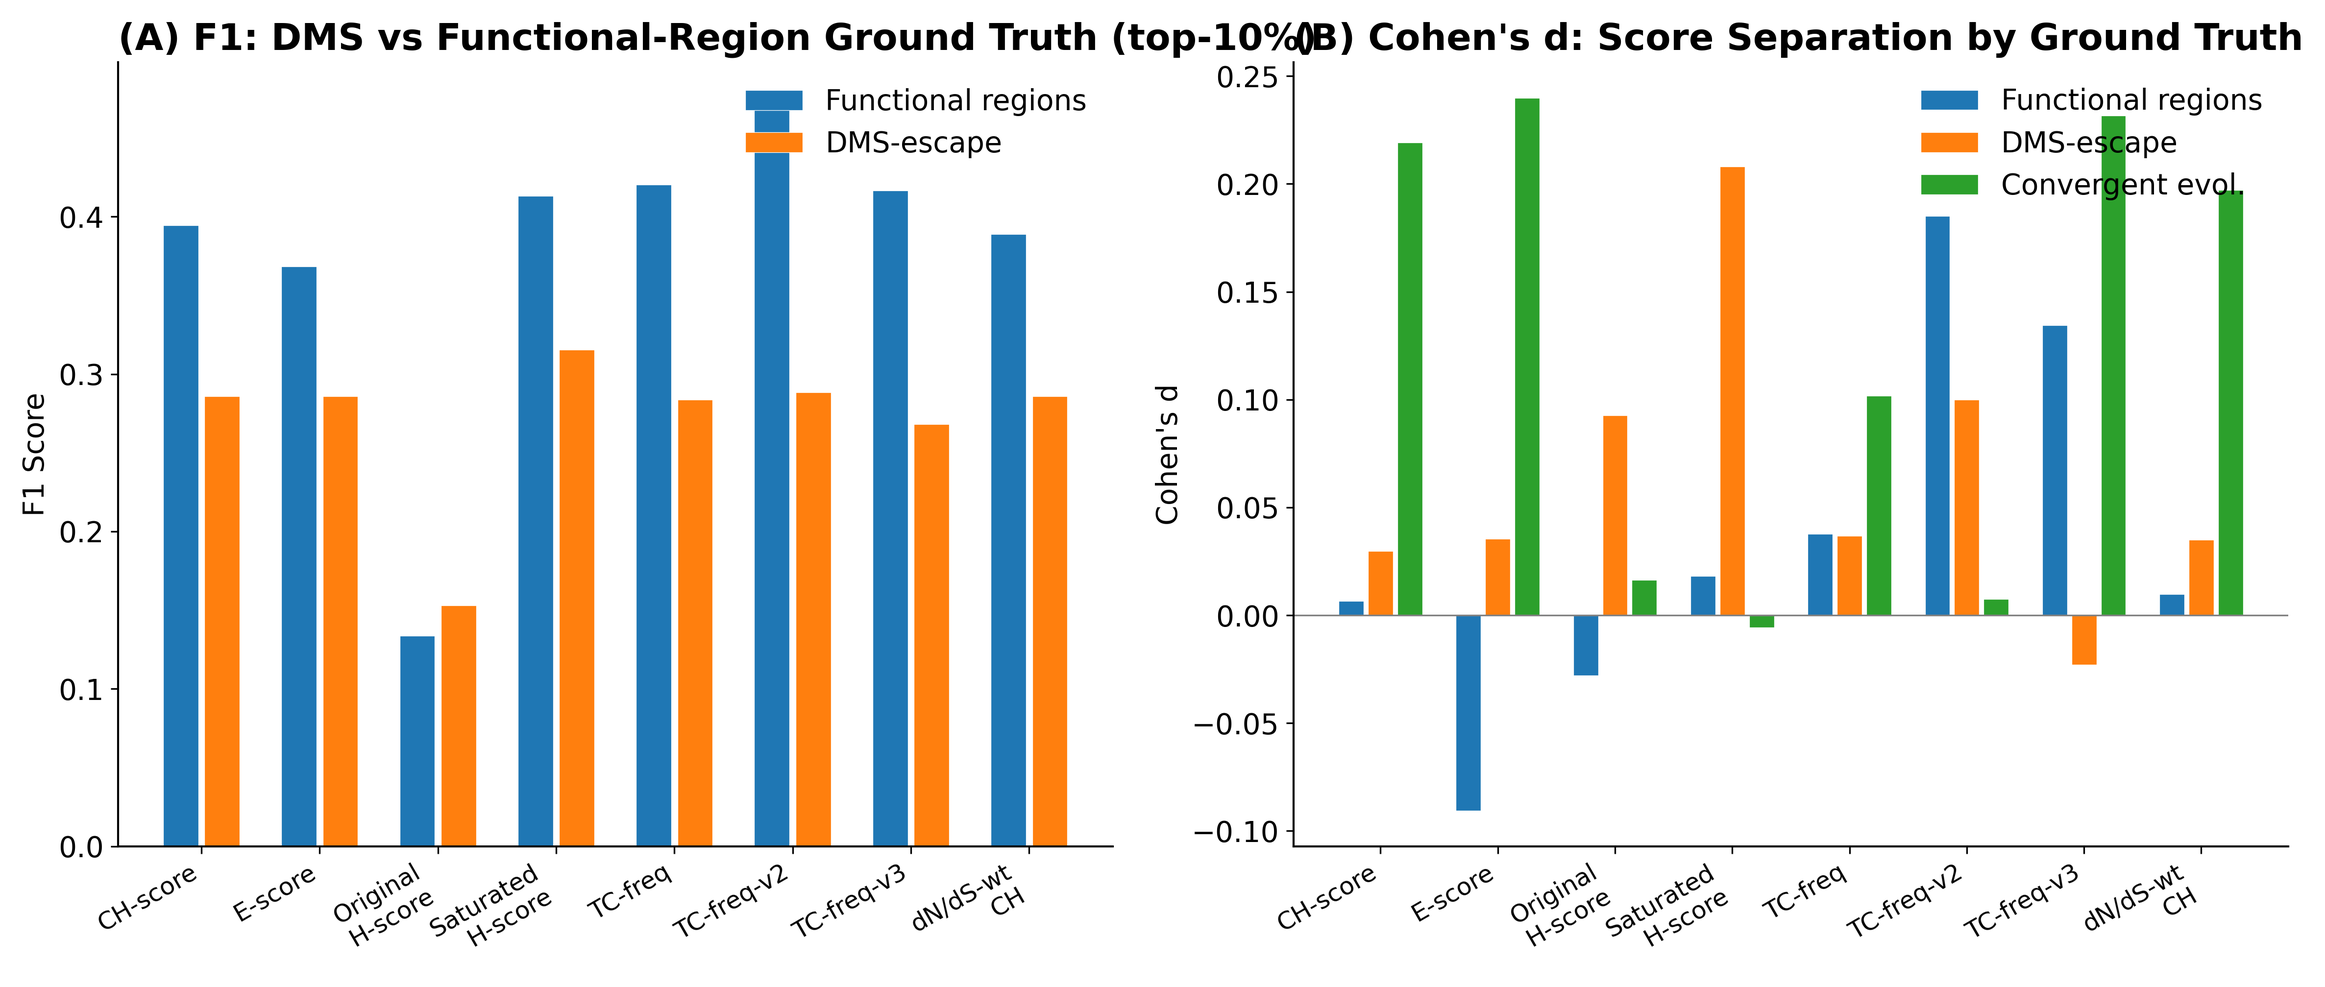
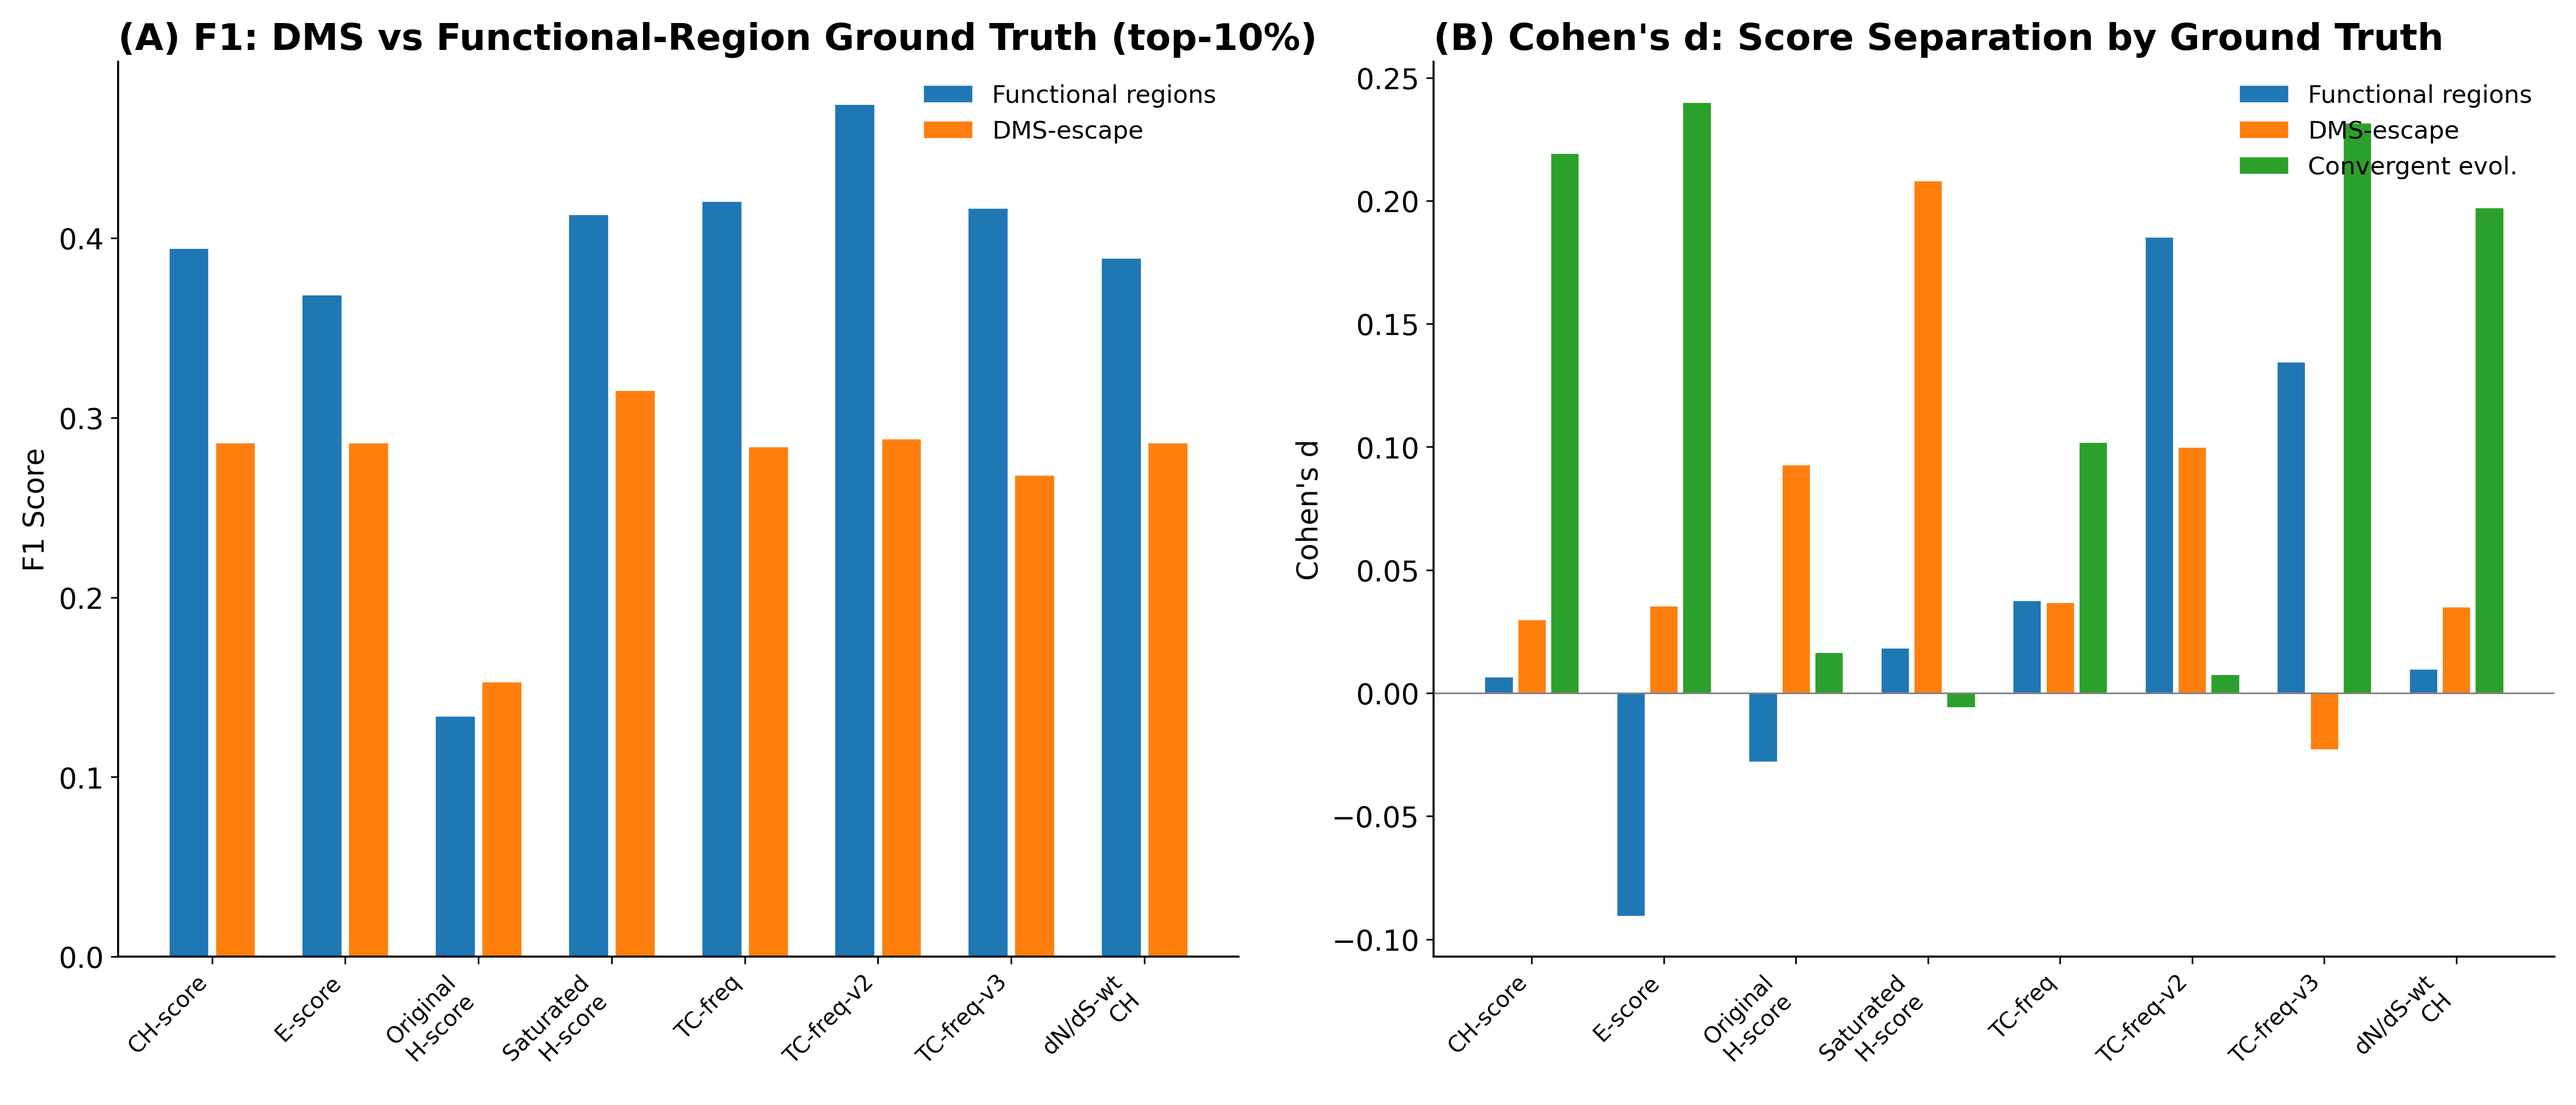
fix: figure text overlap — legends, labels, annotations
- Panel A x-labels: rotation 30→45, fontsize 14→11
- Panel A legend: moved to upper-left, reduced fontsize
- Panel D spike legend: bbox_to_anchor to prevent data overlap
- Panel F y-labels: reduced fontsize to prevent clipping
- Multi-GT x-labels: added rotation=20
- DMS panels: rotation 30→45, enlarged figures 16x7→18x8
- Region-overlap: bar annotations repositioned
- All figures: tight_layout pad 1.5→2.0

diff --git a/scripts/regenerate_dissertation_figures.py b/scripts/regenerate_dissertation_figures.py
@@ -60,8 +60,8 @@ def figure_4_1():
         'sliding_window': 'dN/dS-wt CH',
     }
 
-    # ── TOP: Panels A, B, C (1x3, 16x6) ──
-    fig_top, axes_top = plt.subplots(1, 3, figsize=(16, 6))
+    # ── TOP: Panels A, B, C (1x3, 18x7) ──
+    fig_top, axes_top = plt.subplots(1, 3, figsize=(18, 7))
 
     # Panel A: Grouped bar chart (Precision, Recall, F1)
     ax_a = axes_top[0]
@@ -78,10 +78,10 @@ def figure_4_1():
 
     ax_a.set_xticks(x)
     ax_a.set_xticklabels([short_labels.get(m, m) for m in methods],
-                         fontsize=12, rotation=30, ha='right')
+                         fontsize=11, rotation=45, ha='right')
     ax_a.set_ylabel('Score', fontsize=14)
-    ax_a.set_ylim(0, 1.1)
-    ax_a.legend(fontsize=14, frameon=False, loc='upper right', ncol=3)
+    ax_a.set_ylim(0, 1.15)
+    ax_a.legend(fontsize=11, frameon=False, loc='upper left', ncol=3)
     ax_a.set_title('(A) Performance (top-10% threshold)', fontsize=PANEL_LABEL_SIZE,
                    fontweight='bold', loc='left')
     ax_a.axhline(y=0.125, color='gray', linestyle='--', linewidth=0.8, alpha=0.6)
@@ -141,14 +141,14 @@ def figure_4_1():
     ax_c.set_title('(C) CH-score: Functional vs Non-functional',
                    fontsize=PANEL_LABEL_SIZE, fontweight='bold', loc='left')
 
-    fig_top.tight_layout(pad=1.5)
+    fig_top.tight_layout(pad=2.0)
     fig_top.savefig(f'{OUT_DIR}/new_methodology_comparison_top.png', dpi=300,
                     bbox_inches='tight', facecolor='white')
     plt.close(fig_top)
     print('Saved: new_methodology_comparison_top.png (A, B, C)')
 
-    # ── BOTTOM: Panels D, E, F (1x3, 16x6) ──
-    fig_bot, axes_bot = plt.subplots(1, 3, figsize=(16, 6))
+    # ── BOTTOM: Panels D, E, F (1x3, 18x7) ──
+    fig_bot, axes_bot = plt.subplots(1, 3, figsize=(18, 7))
 
     # Panel D: Scores along Spike protein
     ax_d = axes_bot[0]
@@ -175,7 +175,8 @@ def figure_4_1():
     ax_d.axvspan(319, 541, alpha=0.1, color='pink', label='RBD')
     ax_d.set_xlabel('Spike Position (AA)', fontsize=14)
     ax_d.set_ylabel('Normalized Score', fontsize=14)
-    ax_d.legend(fontsize=12, frameon=False, loc='upper right', ncol=2)
+    ax_d.legend(fontsize=10, frameon=False, loc='upper right', ncol=2,
+                bbox_to_anchor=(1.0, 1.0))
     ax_d.set_title('(D) Scores Along Spike Protein', fontsize=PANEL_LABEL_SIZE,
                    fontweight='bold', loc='left')
     ax_d.set_xlim(0, 1280)
@@ -219,17 +220,17 @@ def figure_4_1():
                        edgecolor='white', linewidth=0.5)
 
     for i, val in enumerate(enrich_values):
-        ax_f.text(val + 0.02, i, f'{val:.2f}', va='center', fontsize=14,
+        ax_f.text(val + 0.02, i, f'{val:.2f}', va='center', fontsize=12,
                   fontweight='bold')
 
     ax_f.set_yticks(y_pos_f)
-    ax_f.set_yticklabels(enrich_methods, fontsize=14)
+    ax_f.set_yticklabels(enrich_methods, fontsize=12)
     ax_f.set_xlabel('Enrichment Ratio (vs random)', fontsize=14)
     ax_f.set_title('(F) Functional Region Enrichment in Top-10%',
                    fontsize=PANEL_LABEL_SIZE, fontweight='bold', loc='left')
     ax_f.set_xlim(0, 1.25)
 
-    fig_bot.tight_layout(pad=1.5)
+    fig_bot.tight_layout(pad=2.0)
     fig_bot.savefig(f'{OUT_DIR}/new_methodology_comparison_bottom.png', dpi=300,
                     bbox_inches='tight', facecolor='white')
     plt.close(fig_bot)
@@ -281,9 +282,9 @@ def figure_4_2():
                  color=color, edgecolor='white', linewidth=0.3)
 
     ax_a.set_xticks(x)
-    ax_a.set_xticklabels(gt_short, fontsize=14)
+    ax_a.set_xticklabels(gt_short, fontsize=12, rotation=20, ha='right')
     ax_a.set_ylabel('Best F1 Score', fontsize=14)
-    ax_a.legend(fontsize=11, frameon=False, loc='upper right', ncol=2,
+    ax_a.legend(fontsize=9, frameon=False, loc='upper right', ncol=2,
                 bbox_to_anchor=(1.0, 1.0))
     ax_a.set_title('(A) Best F1 by Approach and Ground Truth',
                    fontsize=PANEL_LABEL_SIZE, fontweight='bold', loc='left')
@@ -318,7 +319,7 @@ def figure_4_2():
     ax_b.set_title('(B) Enrichment Ratio Heatmap',
                    fontsize=PANEL_LABEL_SIZE, fontweight='bold', loc='left')
 
-    fig_top.tight_layout(pad=1.5)
+    fig_top.tight_layout(pad=2.0)
     fig_top.savefig(f'{OUT_DIR}/multi_ground_truth_top.png', dpi=300,
                     bbox_inches='tight', facecolor='white')
     plt.close(fig_top)
@@ -404,7 +405,7 @@ def figure_4_2():
     ax_d.text(1.5, 0.89, 'Mann-Whitney U p = 1.30e-02', ha='center',
               fontsize=14, fontstyle='italic')
 
-    fig_bot.tight_layout(pad=1.5)
+    fig_bot.tight_layout(pad=2.0)
     fig_bot.savefig(f'{OUT_DIR}/multi_ground_truth_bottom.png', dpi=300,
                     bbox_inches='tight', facecolor='white')
     plt.close(fig_bot)
@@ -436,8 +437,8 @@ def figure_4_3():
         'DMS-escape (strict)': '#2ca02c',
     }
 
-    # ── TOP: Panels A, B (1x2, 16x7) ──
-    fig_top, (ax_a, ax_b) = plt.subplots(1, 2, figsize=(16, 7))
+    # ── TOP: Panels A, B (1x2, 18x8) ──
+    fig_top, (ax_a, ax_b) = plt.subplots(1, 2, figsize=(18, 8))
 
     # Panel A: F1 by approach, grouped by ground truth
     gt_list_a = ['Functional regions', 'DMS-escape (top20%)']
@@ -458,9 +459,9 @@ def figure_4_3():
 
     ax_a.set_xticks(x)
     ax_a.set_xticklabels([approach_short.get(a, a) for a in approaches],
-                         fontsize=12, rotation=30, ha='right')
+                         fontsize=11, rotation=45, ha='right')
     ax_a.set_ylabel('F1 Score', fontsize=14)
-    ax_a.legend(fontsize=14, frameon=False, loc='upper right')
+    ax_a.legend(fontsize=12, frameon=False, loc='upper right')
     ax_a.set_title('(A) F1: DMS vs Functional-Region Ground Truth (top-10%)',
                    fontsize=PANEL_LABEL_SIZE, fontweight='bold', loc='left')
 
@@ -485,14 +486,14 @@ def figure_4_3():
 
     ax_b.set_xticks(x_b)
     ax_b.set_xticklabels([approach_short.get(a, a) for a in approaches],
-                         fontsize=12, rotation=30, ha='right')
+                         fontsize=11, rotation=45, ha='right')
     ax_b.set_ylabel("Cohen's d", fontsize=14)
-    ax_b.legend(fontsize=14, frameon=False, loc='upper right')
+    ax_b.legend(fontsize=12, frameon=False, loc='upper right')
     ax_b.set_title("(B) Cohen's d: Score Separation by Ground Truth",
                    fontsize=PANEL_LABEL_SIZE, fontweight='bold', loc='left')
     ax_b.axhline(y=0, color='gray', linewidth=0.8, linestyle='-')
 
-    fig_top.tight_layout(pad=1.5)
+    fig_top.tight_layout(pad=2.0)
     fig_top.savefig(f'{OUT_DIR}/dms_evaluation_top.png', dpi=300,
                     bbox_inches='tight', facecolor='white')
     plt.close(fig_top)
@@ -519,7 +520,7 @@ def figure_4_3():
 
     ax_c.set_xlabel('Approach Score', fontsize=14)
     ax_c.set_ylabel('DMS Impact (Fitness)', fontsize=14)
-    ax_c.legend(fontsize=14, frameon=False, loc='lower left',
+    ax_c.legend(fontsize=11, frameon=False, loc='lower left',
                 markerscale=2.5)
     ax_c.set_title('(C) Score vs DMS Functional Importance',
                    fontsize=PANEL_LABEL_SIZE, fontweight='bold', loc='left')
@@ -559,13 +560,13 @@ def figure_4_3():
 
     ax_d.set_xlabel('Recall', fontsize=14)
     ax_d.set_ylabel('Precision', fontsize=14)
-    ax_d.legend(fontsize=14, frameon=False, loc='upper right')
+    ax_d.legend(fontsize=11, frameon=False, loc='upper right')
     ax_d.set_title('(D) Precision-Recall: DMS-escape (top20%)',
                    fontsize=PANEL_LABEL_SIZE, fontweight='bold', loc='left')
     ax_d.set_xlim(0, 1.05)
     ax_d.set_ylim(0, 0.5)
 
-    fig_bot.tight_layout(pad=1.5)
+    fig_bot.tight_layout(pad=2.0)
     fig_bot.savefig(f'{OUT_DIR}/dms_evaluation_bottom.png', dpi=300,
                     bbox_inches='tight', facecolor='white')
     plt.close(fig_bot)

diff --git a/scripts/generate_new_figures.py b/scripts/generate_new_figures.py
@@ -5,8 +5,9 @@ Figure 1: Region-Overlap MCC Bar Chart (for Chapter 5)
 """
 
 import pandas as pd
-import matplotlib.pyplot as plt
 import matplotlib
+matplotlib.use('Agg')
+import matplotlib.pyplot as plt
 import numpy as np
 
 matplotlib.rcParams['font.family'] = 'sans-serif'
@@ -60,8 +61,8 @@ def generate_region_overlap_bar():
             height = bar_item.get_height()
             ax.annotate(f'{height:.3f}',
                         xy=(bar_item.get_x() + bar_item.get_width() / 2, height),
-                        xytext=(0, 3), textcoords='offset points',
-                        ha='center', va='bottom', fontsize=9, rotation=45)
+                        xytext=(0, 4), textcoords='offset points',
+                        ha='left', va='bottom', fontsize=8, rotation=45)
 
     # Mean lines
     for i, (col, color) in enumerate(zip(['Exact', '±5', '±10'], colors)):
@@ -77,7 +78,7 @@ def generate_region_overlap_bar():
     ax.set_xticklabels([label_map[p] for p in PATHOGENS], fontsize=12)
     ax.tick_params(axis='y', labelsize=12)
     ax.legend(fontsize=12, title='Window', title_fontsize=12, loc='upper left')
-    ax.set_ylim(0, 1.15)
+    ax.set_ylim(0, 1.25)
 
     # Remove top/right spines
     ax.spines['top'].set_visible(False)
